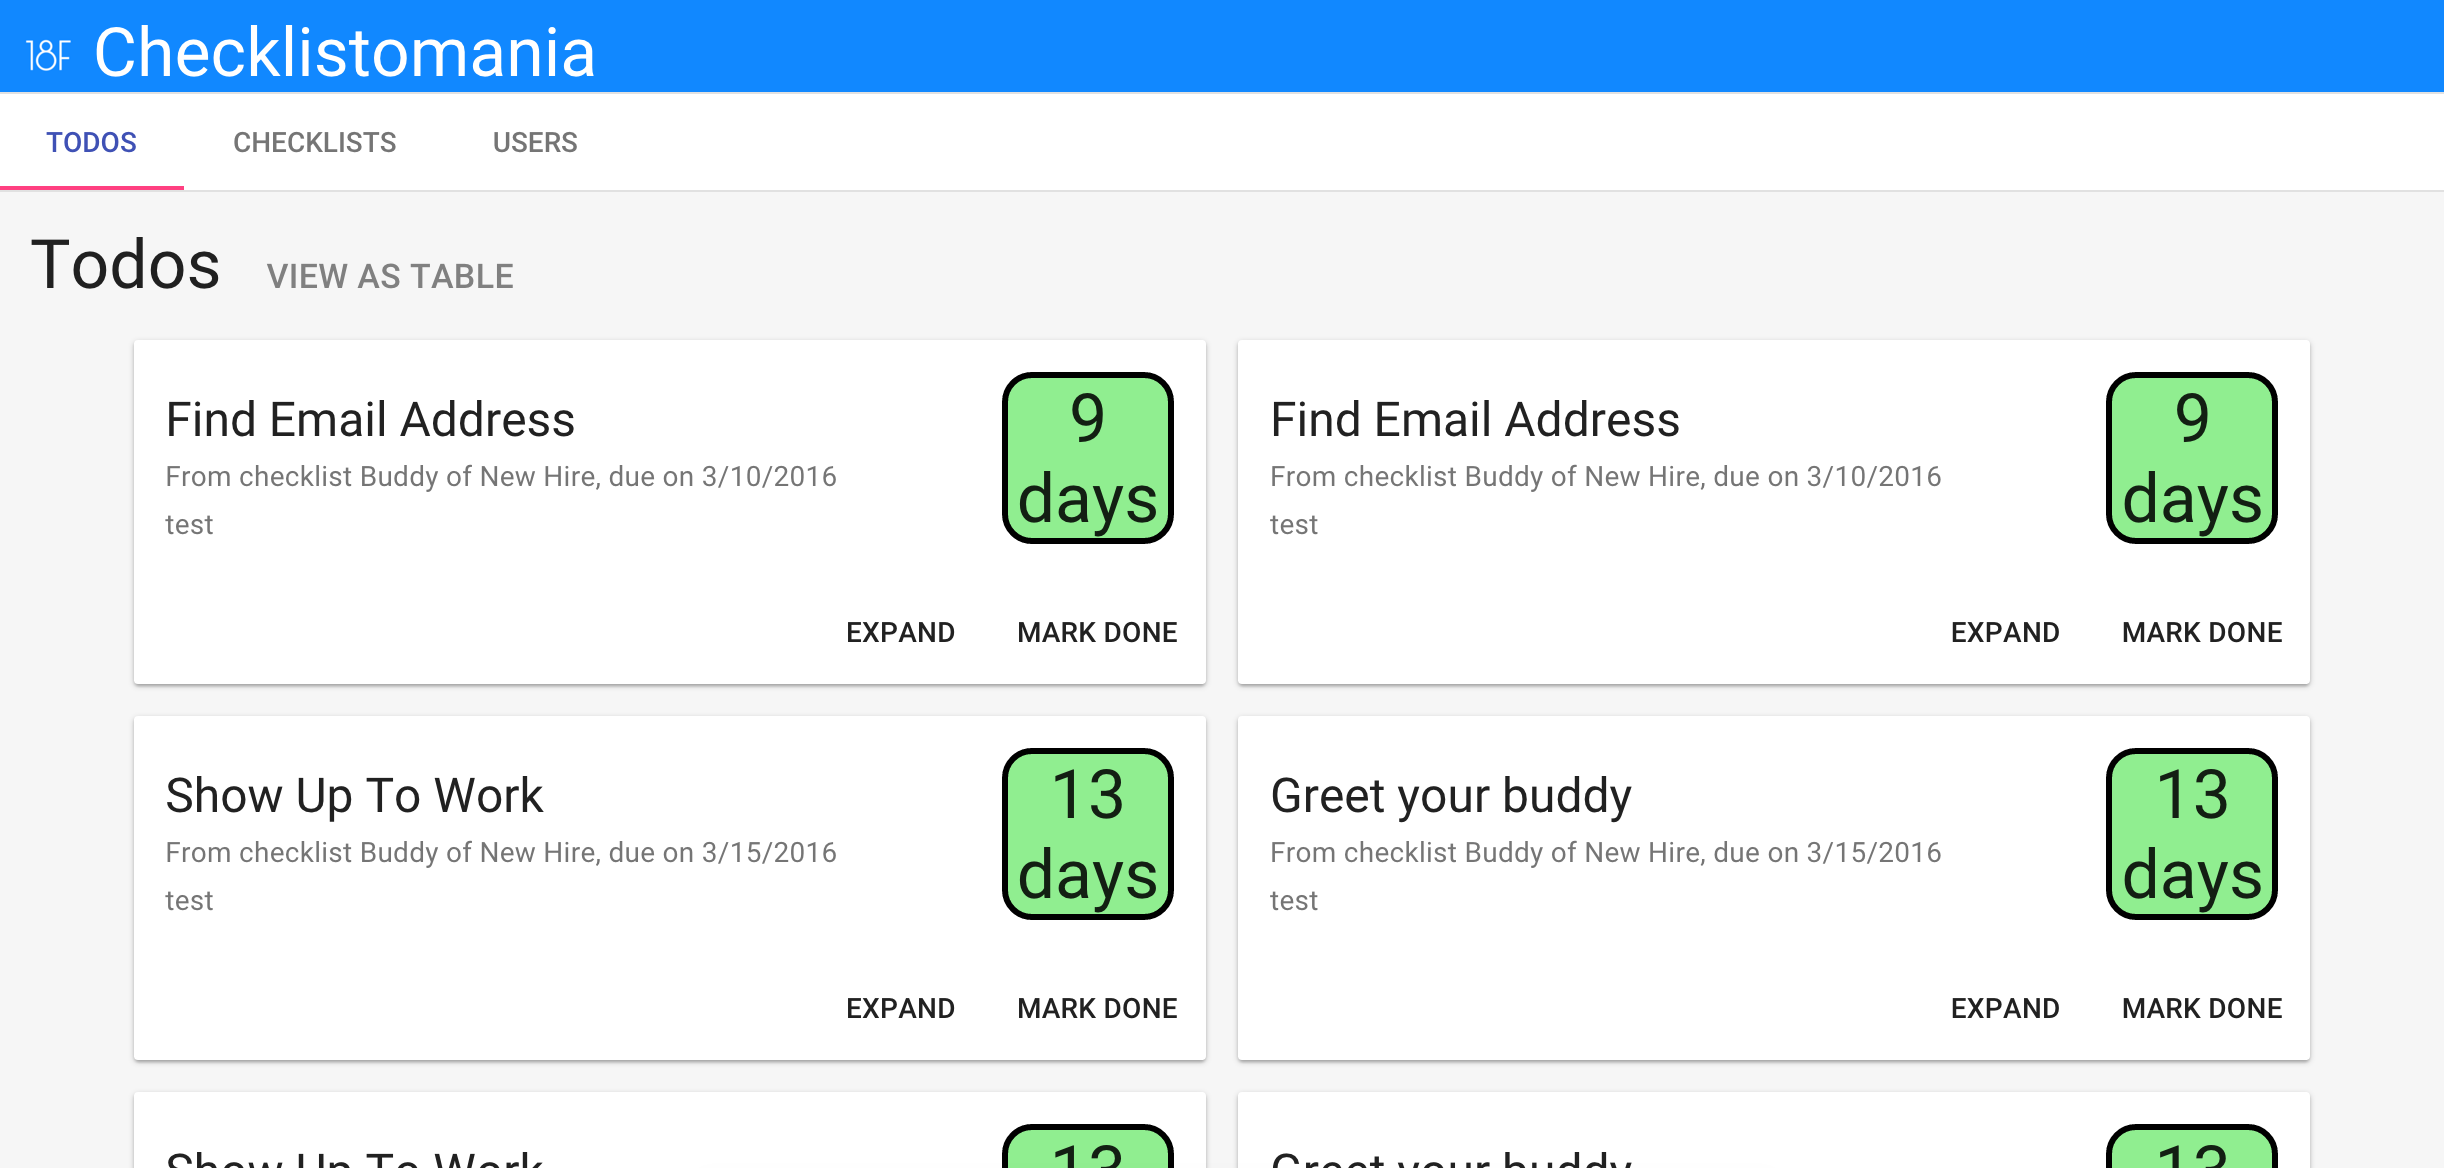
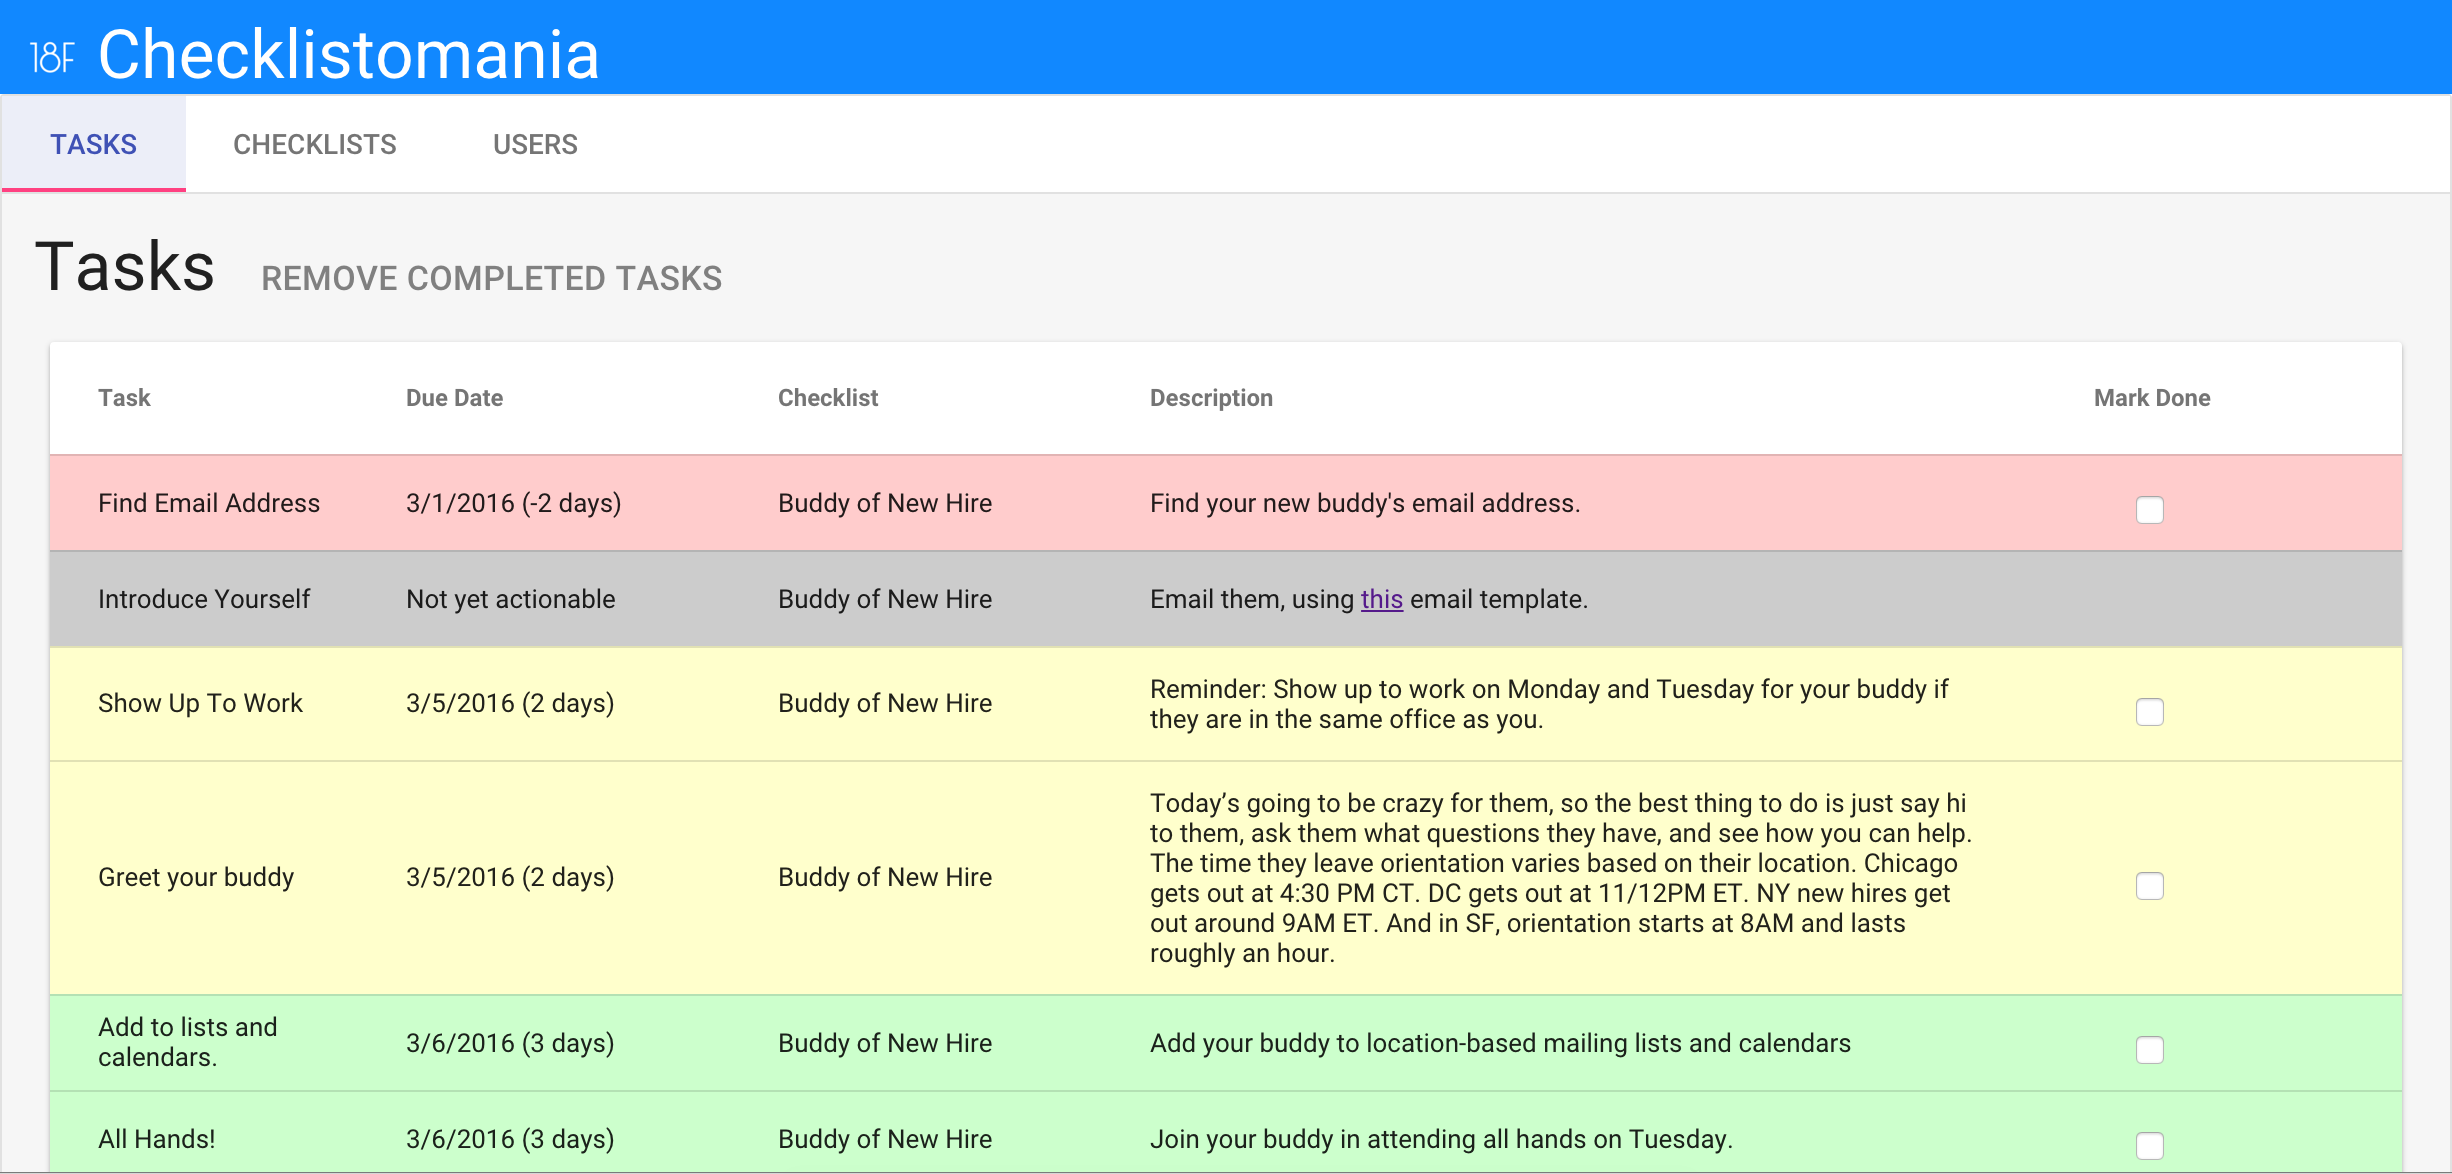
updating screen shot, recommitting todos as tasks

diff --git a/private/tmpl/tasks.tmpl.html b/private/tmpl/tasks.tmpl.html
@@ -1,0 +1,41 @@
+
+  <md-content class="md-padding">
+    <div class="md-display-1">Tasks
+      <md-button class="toggleView" ng-click="clearDone()"
+      ng-show="items.length > 0">Remove Completed Tasks</md-button>
+    </div>
+    <p ng-show="items.length == 0">Nothing to do! Pat yourself on the back (or assign yourself some new checklists
+      from the checklists tab)!</p>
+    <div ng-show="items.length > 0">
+      <md-card>
+      <md-table-container>
+        <table class="md-primary md-table" md-row-select="selected" md-progress="deferred">
+          <thead class="md-head">
+            <tr class="md-row">
+              <th class="md-column">Task</th>
+              <th class="md-column">Due Date</th>
+              <th class="md-column">Checklist</th>
+              <th class="md-column">Description</th>
+              <th class="md-column">Mark Done</th>
+            </tr>
+          </thead>
+          <tbody class="md-body">
+            <tr class="md-row" ng-repeat="item in items" ng-class="item.trafficLight">
+              <td class="md-cell">{{ item.displayName }}</td>
+              <td class="md-cell" ng-show="item.dueDate">{{ item.dueDate.toLocaleDateString() }} ({{ item.daysUntilDue }} days)</td>
+              <td class="md-cell" ng-show="!item.dueDate">Not yet actionable</td>
+              <td class="md-cell">{{ item.checklistName }}<span ng-show="item.notes">. Notes: {{ item.notes }}</span></td>
+              <td class="md-cell">
+                <p ng-bind-html="item.descriptionHtml"></p>
+              </td>
+              <td class="md-cell">
+                <md-button class="md-icon-button markDoneCheck" href="#" ng-click="markDone(item)" ng-hide="item.completedDate || !item.dueDate"><input type="checkbox"></md-button>
+                <md-button class="md-icon-button markDoneCheck" href="#" ng-click="alert('Sorry! Undoing is not supported at this time.')" ng-hide="!item.completedDate"><input type="checkbox" checked></md-button>
+              </td>
+            </tr>
+          </tbody>
+        </table>
+      </md-table-container>
+      </md-card>
+    </div>
+  </md-content>

diff --git a/README.md b/README.md
@@ -11,7 +11,7 @@ This tool is a checklist manager with some neat-O features:
 Here's some screenshots to give you a sense of the look & feel:
 
 The ToDo's tab provides a centralized place for all your todo items:
-![Todos](/public/img/todoTable.png?raw=true "Todos")
+![Todos](/public/img/todos.png?raw=true "Todos")
 
 The checklists tab is where you assign yourself a new pre-defined checklist:
 ![Checklists](/public/img/checklists.png?raw=true "Checklists")
